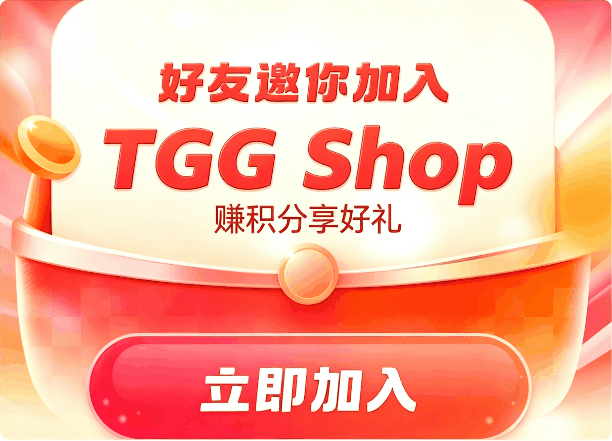
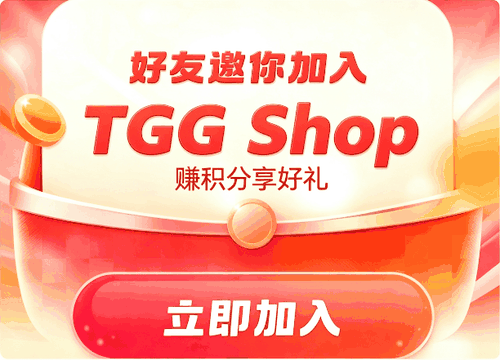
fix: reduce bundled mini-program media below 200 KB

diff --git a/wechat-miniprogram/scripts/optimize-assets.py b/wechat-miniprogram/scripts/optimize-assets.py
@@ -1,0 +1,64 @@
+"""Optimize bundled artwork with Pillow and check the 200 KB media budget.
+
+Run normally after regenerating artwork, or use --check for a read-only scan.
+Existing PNG paths are preserved; no remote resources are introduced.
+"""
+import argparse
+from io import BytesIO
+from pathlib import Path
+
+ROOT = Path(__file__).resolve().parents[1]
+MEDIA_EXTENSIONS = {
+    '.png', '.jpg', '.jpeg', '.gif', '.webp', '.bmp', '.svg', '.ico',
+    '.mp3', '.mp4', '.wav', '.aac', '.m4a', '.ogg', '.mov', '.avi',
+}
+# Stay below both decimal KB and the developer tool's binary KB threshold.
+LIMIT_BYTES = 200_000
+TARGETS = {
+    'assets/icons/home-earn.png': (192, 192),
+    'assets/icons/home-invite.png': (192, 192),
+    'assets/icons/home-membership.png': (192, 192),
+    'assets/invite-share.png': (500, 500),
+}
+
+
+def optimize():
+    from PIL import Image
+
+    for relative, size in TARGETS.items():
+        path = ROOT / relative
+        with Image.open(path) as source:
+            # Already optimized files must not be quantized repeatedly.
+            if source.mode == 'P' and source.width <= size[0] and source.height <= size[1]:
+                continue
+            image = source.convert('RGB')
+            image.thumbnail(size, Image.Resampling.LANCZOS)
+            image = image.quantize(colors=128, method=Image.Quantize.MEDIANCUT)
+            output = BytesIO()
+            image.save(output, format='PNG', optimize=True)
+        before = path.stat().st_size
+        if output.tell() < before:
+            path.write_bytes(output.getvalue())
+            print(f'{relative}: {before} -> {path.stat().st_size} bytes')
+
+
+def check():
+    files = sorted((path for path in ROOT.rglob('*')
+                    if path.is_file() and path.suffix.lower() in MEDIA_EXTENSIONS
+                    and not any(part in {'.git', 'node_modules'} for part in path.relative_to(ROOT).parts)),
+                   key=lambda path: path.stat().st_size, reverse=True)
+    total = sum(path.stat().st_size for path in files)
+    print(f'Bundled media: {len(files)} files, {total} bytes ({total / 1024:.1f} KiB); limit {LIMIT_BYTES} bytes')
+    if total > LIMIT_BYTES:
+        for path in files[:5]:
+            print(f'  {path.relative_to(ROOT)}: {path.stat().st_size} bytes')
+        raise SystemExit('Media budget exceeded. Optimize the artwork before uploading.')
+
+
+if __name__ == '__main__':
+    parser = argparse.ArgumentParser(description=__doc__)
+    parser.add_argument('--check', action='store_true', help='Read-only media budget check; Pillow is not required')
+    args = parser.parse_args()
+    if not args.check:
+        optimize()
+    check()

diff --git a/wechat-miniprogram/README.md b/wechat-miniprogram/README.md
@@ -10,6 +10,8 @@
 
 品牌素材位于 `assets/`。需要重新生成导航图标及横幅照片时，在仓库根目录安装 Pillow 后运行 `python wechat-miniprogram/scripts/generate-brand-assets.py`。模板与样式可运行 `node wechat-miniprogram/scripts/compile.js --compiler-dir "开发者工具内的 wcc-exec 目录"` 检查；最终渲染以微信开发者工具和真机为准。
 
+图片和音视频按包内总量控制在 200 KB 以下。更新素材后运行 `python wechat-miniprogram/scripts/optimize-assets.py`，压缩首页三个快捷图标和邀请分享图，并校验所有本地媒体总量；只检查可用 `python wechat-miniprogram/scripts/optimize-assets.py --check`（无需 Pillow）。压缩保持原文件路径，不影响图标引用或邀请分享。开发者工具执行“清缓存 → 清除编译缓存”，重新编译，再点代码质量“重新扫描”。
+
 ## 说明
 
 当前已注册 20 个页面，覆盖：
